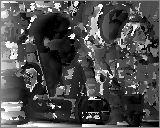
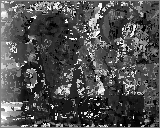
Adding PS-2 README.md

diff --git a/ps_2/README.md b/ps_2/README.md
@@ -1,0 +1,52 @@
+# Problem Set 2: Window-based Stereo Matching
+[link to problems](https://docs.google.com/document/d/1WcljLaRxL-Pj3VWYz7JtYysYoZtRZoLIrTG2x48uVWE/pub?embedded=true)
+
+### 1. Disparity on Synthetic textured image
+a) Disparity with respect to left & Disparity with respect to right 
+
+><img src="output/ps2-1-a-1.png" height="250"> <img src="output/ps2-1-a-2.png" height="250"> 
+
+### 2. Disparity on Real images
+a)  
+><img src="output/ps2-2-a-1.png" height="250"> <img src="output/ps2-2-a-2.png" height="250"> 
+
+Ground Truth
+><img src="input/pair1-D_L.png" height="250"> <img src="input/pair1-D_R.png" height="250"> 
+
+b) "Description of the differences between your results and ground truth"
+  
+    The calculated disparity cannot be as good as ground truth as finding correspondences for triangulation is very hard
+
+### 3. Disparity on Noisy Images
+a) Gaussian Noise over one image
+
+><img src="output/ps2-3-a-1.png" height="250"> <img src="output/ps2-3-a-2.png" height="250"> 
+
+b) Contrast Difference
+
+><img src="input/ps2-3-b-1.png" height="250"> <img src="output/ps2-3-b-2.png" height="250"> 
+
+    The used similarity method SSD is sensitive to noise (gaussian or contrasting change) and hence can cause error in 
+    calculated disparities
+
+### 4. Normalized Correlation for finding correspondences
+
+a) Disparity with respect to left & Disparity with respect to right  
+><img src="output/ps2-4-a-1.png" height="250"> <img src="output/ps2-4-a-2.png" height="250">  
+
+b) 
+N-Corr disparity finding on image pair with Gaussing Noise on one image
+Left Disparity Map,   Right Disparity Map
+><img src="output/ps2-4-b-1.png" height="250"> <img src="output/ps2-4-b-2.png" height="250">  
+
+N-Corr disparity finding on image pair with Gaussing Noise on one image
+><img src="output/ps2-4-b-3.png" height="250"> <img src="output/ps2-4-b-4.png" height="250">  
+
+#### 5. Disparity on second pair of images
+a)  
+><img src="output/ps2-5-a-1.png" height="250"> <img src="output/ps2-5-a-2.png" height="250">  
+
+Ground Truth
+><img src="input/pair2-D_L.png" height="250"> <img src="input/pair2-D_R.png" height="250"> 
+
+    Images in pair 2 does not have good texture and thus has less correspondences available to find the disparity.
